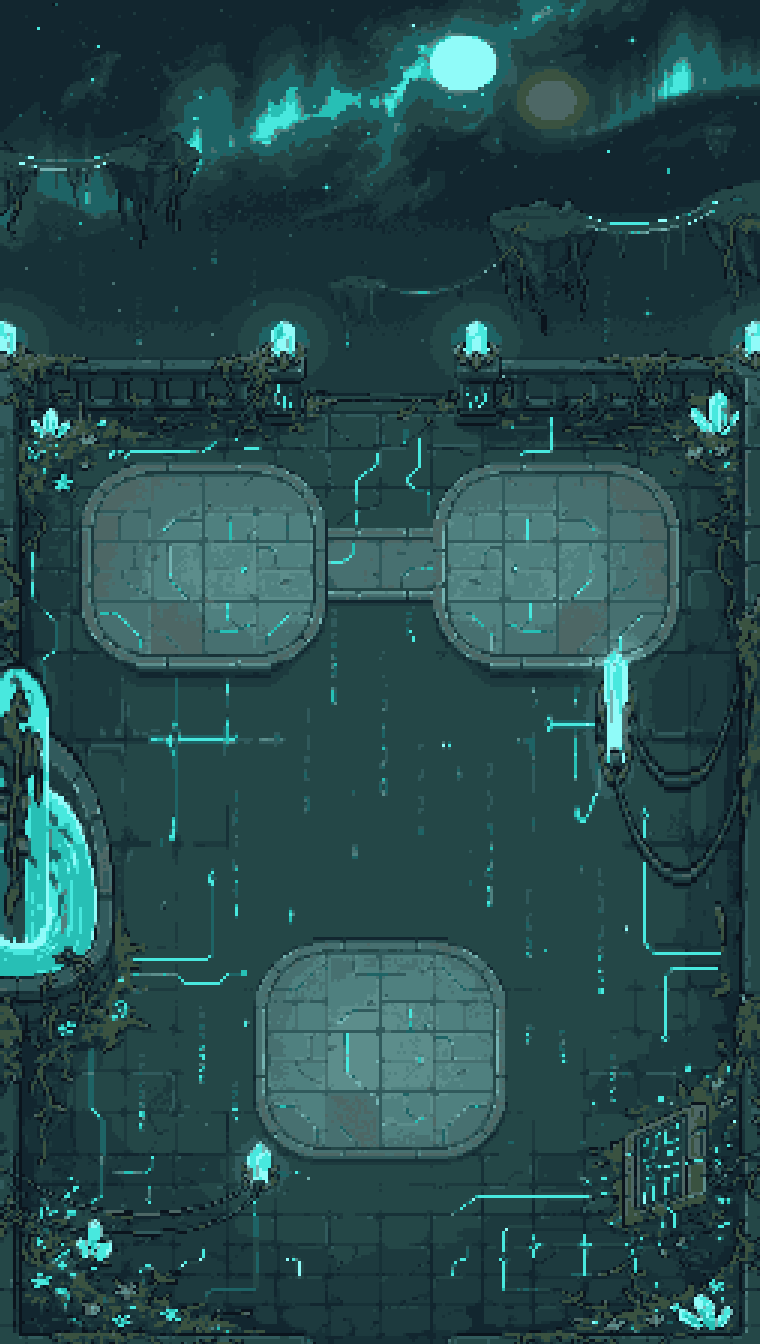
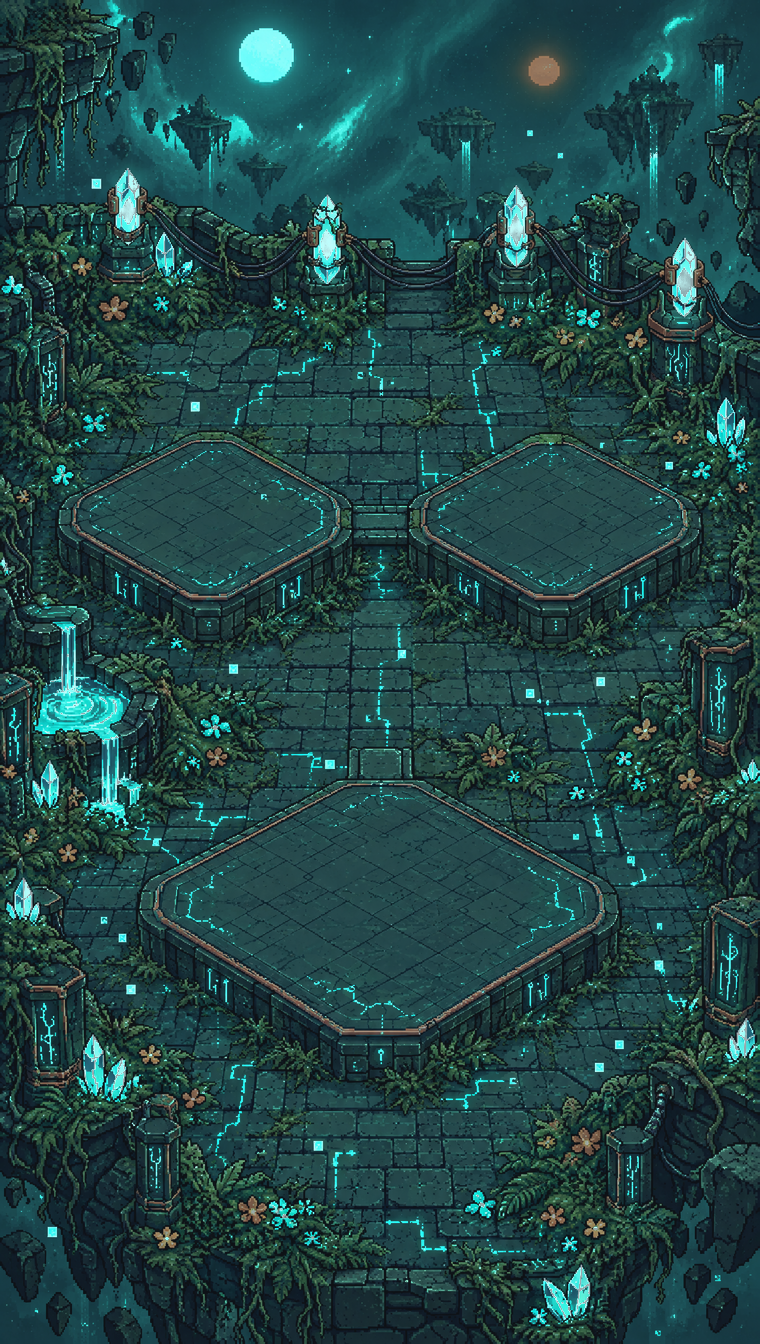
feat(arte): fundos novos do Hall e do Laboratório com lotes nas plataformas novas
Fundos refeitos (entrada-dono/05-bg-*, GPT Image 2) no pós dos aprovados:
cover 760x1344 lanczos, grade-to-home, 0 px de matiz 262-345. Posições de
HALL_LOTS/LABORATORIO_LOTS medidas no cover 390x844 (Observatório sobe para
o hexágono grande; Evolução e Meu Soulmon descem). areaLotGeometry verde.

diff --git a/src/utils/areaSheetCopy.ts b/src/utils/areaSheetCopy.ts
@@ -82,18 +82,23 @@ const ARENA_LOTS: AreaLotSpec<ArenaLotId>[] = [
 // 🔭 01/10/2026 (H16/H17, navegação do dono): prédios MAIORES. No Laboratório o
 // Observatório fica significativamente maior que os vizinhos, e os dois de cima
 // crescem um pouco e descem para assentar no hexágono. No Hall os três crescem.
-// ⚠ Os fundos do Hall e do Laboratório estão sendo refeitos (H18, frente de
-// arte): se a clareira mudar, só `left`/`top`/`width` destas linhas mudam.
+// 🗺 04/10/2026 (H18, fundos refeitos — `entrada-dono/05-bg-*`, GPT Image 2): plataformas NOVAS.
+// Medidas no fundo final renderizado em `cover` a 390×844 (o `left` é % da TELA, não da imagem:
+// o `cover` corta ~11% de cada lado, então a plataforma em 26% da imagem cai em ~22% da tela).
+// Hall: dois losangos em cima (centro ~22/37 e ~78/37 na tela) e um grande embaixo (~50/66).
+// Laboratório: o hexágono GRANDE subiu (centro ~50/41, o Observatório) e os dois menores desceram
+// (~22/66 e ~78/66). O `top` é o pé do prédio, um pouco à frente do centro da plataforma. Prévia:
+// `E:/Soulmon-assets/out/instalacao-20261004/areas/prancha-01-hall-lab-lotes.png`.
 const LABORATORIO_LOTS: AreaLotSpec<LaboratorioLotId>[] = [
-  { id: 'evolucao', labelPt: 'Árvore da Evolução', labelEn: 'Evolution Tree', ariaPt: 'Entrar na Árvore da Evolução', ariaEn: 'Enter the Evolution Tree', left: '27%', top: '57%', width: '44%' },
-  { id: 'pet', labelPt: 'Meu Soulmon', labelEn: 'My Soulmon', ariaPt: 'Entrar em Meu Soulmon', ariaEn: 'Enter My Soulmon', left: '72%', top: '56%', width: '52%' },
-  { id: 'stats', labelPt: 'Observatório', labelEn: 'Observatory', ariaPt: 'Entrar no Observatório (estatísticas)', ariaEn: 'Enter the Observatory (stats)', left: '50%', top: '88%', width: '62%' },
+  { id: 'evolucao', labelPt: 'Árvore da Evolução', labelEn: 'Evolution Tree', ariaPt: 'Entrar na Árvore da Evolução', ariaEn: 'Enter the Evolution Tree', left: '22%', top: '70%', width: '44%' },
+  { id: 'pet', labelPt: 'Meu Soulmon', labelEn: 'My Soulmon', ariaPt: 'Entrar em Meu Soulmon', ariaEn: 'Enter My Soulmon', left: '78%', top: '70%', width: '50%' },
+  { id: 'stats', labelPt: 'Observatório', labelEn: 'Observatory', ariaPt: 'Entrar no Observatório (estatísticas)', ariaEn: 'Enter the Observatory (stats)', left: '50%', top: '43%', width: '62%' },
 ];
 
 const HALL_LOTS: AreaLotSpec<HallLotId>[] = [
-  { id: 'biblioteca', labelPt: 'Biblioteca', labelEn: 'Library', ariaPt: 'Entrar na Biblioteca', ariaEn: 'Enter the Library', left: '27%', top: '44%', width: '46%' },
-  { id: 'amigos', labelPt: 'Círculo de Amigos', labelEn: 'Friends Circle', ariaPt: 'Entrar no Círculo de Amigos', ariaEn: 'Enter the Friends Circle', left: '72%', top: '44%', width: '46%' },
-  { id: 'guilda', labelPt: GUILD_COPY['guild.lote.hall.label'][0], labelEn: GUILD_COPY['guild.lote.hall.label'][1], ariaPt: GUILD_COPY['guild.lote.hall.aria'][0], ariaEn: GUILD_COPY['guild.lote.hall.aria'][1], left: '50%', top: '80%', width: '48%' },
+  { id: 'biblioteca', labelPt: 'Biblioteca', labelEn: 'Library', ariaPt: 'Entrar na Biblioteca', ariaEn: 'Enter the Library', left: '22%', top: '40%', width: '44%' },
+  { id: 'amigos', labelPt: 'Círculo de Amigos', labelEn: 'Friends Circle', ariaPt: 'Entrar no Círculo de Amigos', ariaEn: 'Enter the Friends Circle', left: '78%', top: '40%', width: '44%' },
+  { id: 'guilda', labelPt: GUILD_COPY['guild.lote.hall.label'][0], labelEn: GUILD_COPY['guild.lote.hall.label'][1], ariaPt: GUILD_COPY['guild.lote.hall.aria'][0], ariaEn: GUILD_COPY['guild.lote.hall.aria'][1], left: '50%', top: '70%', width: '58%' },
 ];
 
 function resolveLots<K extends string>(specs: AreaLotSpec<K>[], language: Language) {

diff --git a/src/assets/soulmon/areas/index.ts b/src/assets/soulmon/areas/index.ts
@@ -63,10 +63,11 @@ export const EXPLORACAO_LOT_ART = { masmorra: loteMasmorra, passeio: lotePasseio
 export const JOGOS_LOT_ART = { salao: lotePpt, mente: loteMente, refugio: loteRefugio } as const;
 
 // ── Guilda, Laboratório e Hall (29/09/2026) ────────────────────────────────
-// 🌙 Fundos 760×1344 do Hall e do Laboratório (30/09/2026, rodada 3 fundos-v2,
-// aprovados pelo dono): até aqui as duas áreas caíam no degradê de tokens do
-// `AreaScene`. As clareiras vazias foram medidas pelo gerador — as posições dos
-// lotes em `utils/areaSheetCopy.ts` (`LABORATORIO_LOTS`/`HALL_LOTS`) seguem elas.
+// 🌙 Fundos 760×1344 do Hall e do Laboratório. 04/10/2026 (H18): REFEITOS na receita dos
+// aprovados (GPT Image 2, 9:16, terreno denso com plataformas esculpidas — `entrada-dono/05-bg-*`)
+// e com o mesmo pós de Arena/Exploração/Mercado/Jogos: cover 760×1344 lanczos, grade-to-home,
+// 0 px de matiz 262–345 (WebP q85 ≈ 306/327 KB, teto 400). As posições dos lotes em
+// `utils/areaSheetCopy.ts` (`LABORATORIO_LOTS`/`HALL_LOTS`) seguem as plataformas novas.
 import bgHall from './bg-hall.png';
 import bgLaboratorio from './bg-laboratorio.png';
 
